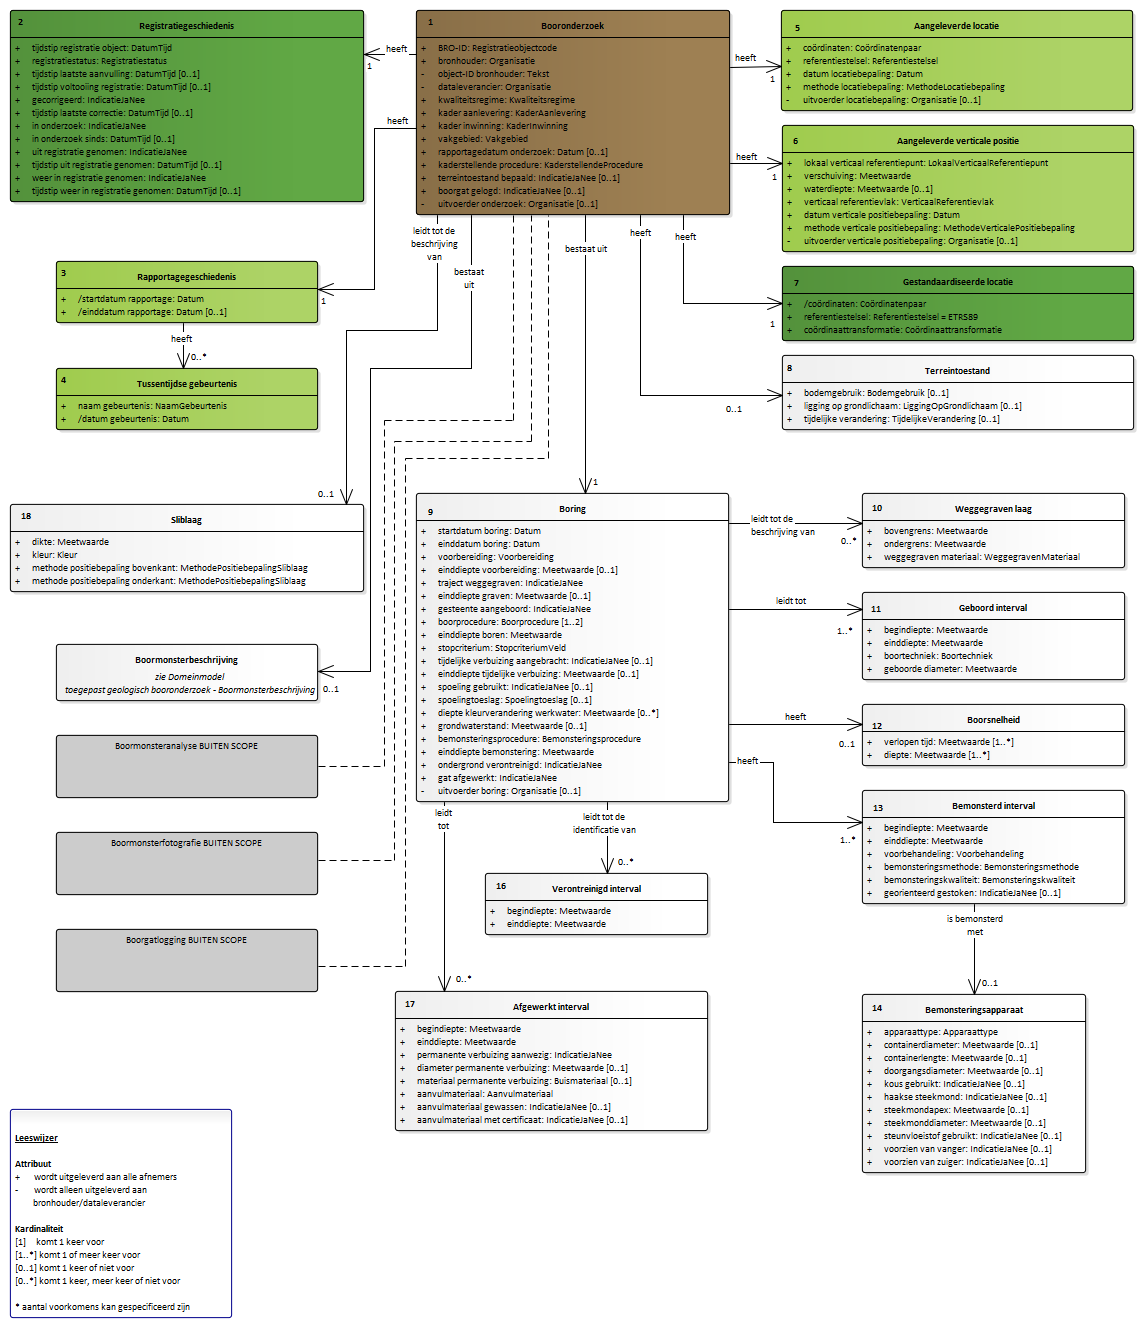
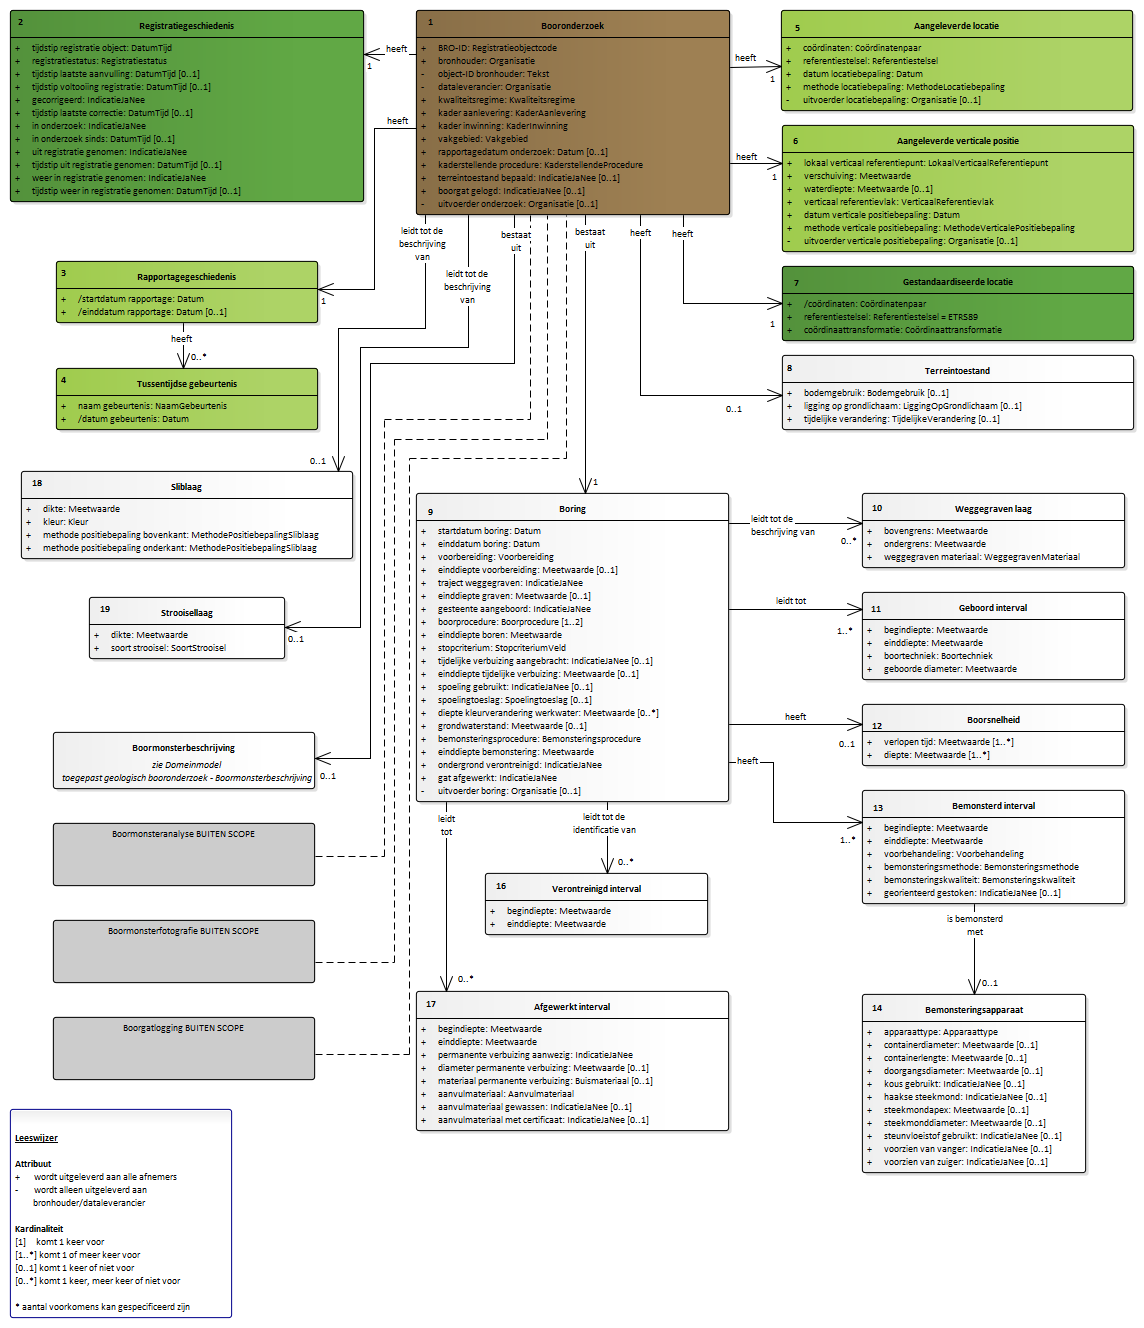
Conceptualmodel-ToegepastgeotechnischbooronderzoekBHR-AGconceptueel-0.1-1-20200401-20200612-103448

diff --git a/data/BHR-AG-cat.msword.html b/data/BHR-AG-cat.msword.html
@@ -13,7 +13,7 @@
    <body>
       <p>Conceptual model/Toegepast geotechnisch booronderzoek (BHR-AG) conceptueel/20200401</p>
       <p>Imvertor: 1.59.4</p>
-      <p>Model release: Conceptualmodel-ToegepastgeotechnischbooronderzoekBHR-AGconceptueel-0.1-1-20200401-20200604-171221</p>
+      <p>Model release: Conceptualmodel-ToegepastgeotechnischbooronderzoekBHR-AGconceptueel-0.1-1-20200401-20200612-103448</p>
       <hr>
       <section>
          <h1>Artikel 1 Definitie van registratieobject, entiteiten en attributen</h1>
@@ -69,21 +69,22 @@
             <h2>Het domeinmodel</h2>
             <section id="">
                <div class="imageinfo overview"><img src="Images/EAID_223402C6_6322_4aba_8709_94671A3F0EA4.png" usemap="#imagemap-EAID_223402C6_6322_4aba_8709_94671A3F0EA4" alt="Diagram "><map name="imagemap-EAID_223402C6_6322_4aba_8709_94671A3F0EA4">
+                     <area shape="rect" alt="Strooisellaag" coords="89,597,285,659" href="#graph_EAID_ECC1D9CE_D27B_483b_9A3D_F471137D71F1">
                      <area shape="rect" alt="Gestandaardiseerde locatie" coords="782,266,1134,341" href="#graph_EAID_A914B861_8C05_4239_879B_2F3E91A3917C">
                      <area shape="rect" alt="Registratiegeschiedenis" coords="10,10,364,202" href="#graph_EAID_739AAD42_75DB_4f57_AAA8_E44A1E9F56C7">
                      <area shape="rect" alt="Tussentijdse gebeurtenis" coords="56,368,318,430" href="#graph_EAID_2C46F586_D6CC_4872_A421_A9496F61E8F9">
                      <area shape="rect" alt="Rapportagegeschiedenis" coords="56,261,318,323" href="#graph_EAID_CED3623F_09BE_4a99_95ED_940EB75850D2">
                      <area shape="rect" alt="Boorsnelheid" coords="862,704,1125,766" href="#graph_EAID_1CB0936F_94C8_4cfd_939F_06B344530E5D">
                      <area shape="rect" alt="Verontreinigd interval" coords="485,873,708,935" href="#graph_EAID_5DA10DC9_4546_4ef1_8AFD_DCA97C43EAEA">
-                     <area shape="rect" alt="Boormonsterbeschrijving" coords="56,644,318,701" href="#graph_EAID_8103A173_5F70_409f_9D04_8BC00B75B8C2">
+                     <area shape="rect" alt="Boormonsterbeschrijving" coords="53,732,315,789" href="#graph_EAID_8103A173_5F70_409f_9D04_8BC00B75B8C2">
                      <area shape="rect" alt="Bemonsteringsapparaat" coords="862,994,1086,1173" href="#graph_EAID_39D147F9_B247_4e8e_9490_FD711A3A40D4">
-                     <area shape="rect" alt="Afgewerkt interval" coords="395,991,708,1131" href="#graph_EAID_D708726D_D9BD_48e2_B9E7_E30E34986E8D">
+                     <area shape="rect" alt="Afgewerkt interval" coords="416,991,729,1131" href="#graph_EAID_D708726D_D9BD_48e2_B9E7_E30E34986E8D">
                      <area shape="rect" alt="Bemonsterd interval" coords="862,790,1125,904" href="#graph_EAID_942B7F57_4285_46e2_866F_EDB4185826DB">
                      <area shape="rect" alt="Geboord interval" coords="862,592,1125,680" href="#graph_EAID_4701F363_88BB_41b6_B361_392BA77EB93D">
                      <area shape="rect" alt="Weggegraven laag" coords="862,493,1125,568" href="#graph_EAID_833E1A20_D927_46d1_8394_84DCDEEFA572">
                      <area shape="rect" alt="Terreintoestand" coords="782,355,1134,430" href="#graph_EAID_D7BF7802_8248_4db2_920D_6A2516EFFB9B">
                      <area shape="rect" alt="Boring" coords="416,493,729,802" href="#graph_EAID_39DA8E6A_0EF3_47fd_844E_6FE320BFA4C3">
-                     <area shape="rect" alt="Sliblaag" coords="10,504,364,592" href="#graph_EAID_304137CD_7F09_49ff_8E9B_BCCFE9E29B41">
+                     <area shape="rect" alt="Sliblaag" coords="21,471,353,559" href="#graph_EAID_304137CD_7F09_49ff_8E9B_BCCFE9E29B41">
                      <area shape="rect" alt="Aangeleverde verticale positie" coords="782,125,1134,252" href="#graph_EAID_20F3A37D_7015_4e91_855F_5420C1F71B69">
                      <area shape="rect" alt="Aangeleverde locatie" coords="781,10,1133,111" href="#graph_EAID_FCC60860_F24C_4fff_B77A_AF02BEEEC7FC">
                      <area shape="rect" alt="Booronderzoek" coords="416,10,730,215" href="#graph_EAID_08444867_A549_4d70_91A3_AB6CAE5538BE"></map><p><b>Domeinmodel toegepast geologisch booronderzoek - Algemeen deel</b></p>
@@ -6841,6 +6842,125 @@
                            <tr>
                               <th>&nbsp;&nbsp;Naam</th>
                               <td><a class="link" href="#detail_class_Model_MethodePositiebepalingSliblaag">MethodePositiebepalingSliblaag</a></td>
+                           </tr>
+                           <tr>
+                              <th>&nbsp;&nbsp;Type</th>
+                              <td>Waardelijst uitbreidbaar</td>
+                           </tr>
+                        </tbody>
+                     </table>
+                     
+                  </section>
+               </section><a class="anchor" id="graph_EAID_ECC1D9CE_D27B_483b_9A3D_F471137D71F1"></a><a class="anchor" id="global_class_Model_Strooisellaag"></a><section id="global_class_Model_Strooisellaag">
+                  <h3>   Strooisellaag</h3>
+                  <div class="imageinfo "><img src="Images/EAID_B55C5F08_5369_4b1e_9914_9F873A27742F.png" usemap="#imagemap-EAID_B55C5F08_5369_4b1e_9914_9F873A27742F" alt="Diagram "><map name="imagemap-EAID_B55C5F08_5369_4b1e_9914_9F873A27742F">
+                        <area shape="rect" alt="Strooisellaag" coords="10,10,191,72" href="#graph_EAID_ECC1D9CE_D27B_483b_9A3D_F471137D71F1"></map><p><b></b></p>
+                  </div>
+                  <table style="width: 100%;">
+                     <colgroup style="width: 30%;"></colgroup>
+                     <colgroup style="width: 70%;"></colgroup>
+                     <tbody>
+                        <tr>
+                           <th>Type gegeven</th>
+                           <td>Entiteit</td>
+                        </tr>
+                        <tr>
+                           <th>Definitie</th>
+                           <td>
+                              
+                              <p>Een laag organisch materiaal die plaatselijk op het maaiveld ligt en uit resten van
+                                 voornamelijk bovengrondse plantendelen in verschillende stadia van omzetting bestaat.
+                              </p>
+                              
+                           </td>
+                        </tr>
+                     </tbody>
+                  </table><a class="anchor" id="detail_attribute_Model_Strooisellaag_dikte"></a><section id="detail_attribute_Model_Strooisellaag_dikte">
+                     <h4>  dikte</h4>
+                     
+                     <table style="width: 100%;">
+                        <colgroup style="width: 30%;"></colgroup>
+                        <colgroup style="width: 70%;"></colgroup>
+                        <tbody>
+                           <tr>
+                              <th>Type gegeven</th>
+                              <td>Attribuut van Strooisellaag</td>
+                           </tr>
+                           <tr>
+                              <th>Definitie</th>
+                              <td>
+                                 
+                                 <p>De dikte van de strooisellaag.</p>
+                                 
+                              </td>
+                           </tr>
+                           <tr>
+                              <th>Juridische status</th>
+                              <td>Authentiek</td>
+                           </tr>
+                           <tr>
+                              <th>Kardinaliteit</th>
+                              <td>1</td>
+                           </tr>
+                           <tr>
+                              <th>Domein</th>
+                              <td></td>
+                           </tr>
+                           <tr>
+                              <th>&nbsp;&nbsp;Naam</th>
+                              <td>Meetwaarde 
+                                 2.2
+                              </td>
+                           </tr>
+                           <tr>
+                              <th>&nbsp;&nbsp;Type</th>
+                              <td>Getal</td>
+                           </tr>
+                           <tr>
+                              <th>&nbsp;&nbsp;Eenheid</th>
+                              <td>m (meter)</td>
+                           </tr>
+                           <tr>
+                              <th>&nbsp;&nbsp;Waardebereik</th>
+                              <td>0 tot 20</td>
+                           </tr>
+                        </tbody>
+                     </table>
+                     
+                  </section><a class="anchor" id="detail_attribute_Model_Strooisellaag_soortstrooisel"></a><section id="detail_attribute_Model_Strooisellaag_soortstrooisel">
+                     <h4>  soort strooisel</h4>
+                     
+                     <table style="width: 100%;">
+                        <colgroup style="width: 30%;"></colgroup>
+                        <colgroup style="width: 70%;"></colgroup>
+                        <tbody>
+                           <tr>
+                              <th>Type gegeven</th>
+                              <td>Attribuut van Strooisellaag</td>
+                           </tr>
+                           <tr>
+                              <th>Definitie</th>
+                              <td>
+                                 
+                                 <p>De nadere aanduiding van de herkomst van het organisch materiaal waaruit de laag bestaat.</p>
+                                 
+                              </td>
+                           </tr>
+                           <tr>
+                              <th>Juridische status</th>
+                              <td>Authentiek</td>
+                           </tr>
+                           <tr>
+                              <th>Kardinaliteit</th>
+                              <td>1</td>
+                           </tr>
+                           <tr>
+                              <th>Domein</th>
+                              <td></td>
+                           </tr>
+                           <tr>
+                              <th>&nbsp;&nbsp;Naam</th>
+                              <td><a class="link" href="#detail_class_Model_SoortStrooisel">SoortStrooisel</a></td>
                            </tr>
                            <tr>
                               <th>&nbsp;&nbsp;Type</th>
@@ -13711,6 +13831,16 @@
                      </td>
                   </tr>
                   <tr>
+                     <td>digitaleKaartGrootschalig</td>
+                     <td>
+                        
+                        <p>Locatie bepaald aan de hand van een digitale kaart, afwijking onbekend. Een grootschalige
+                           kaart is de Basisregistratie Grootschalige Topografie (BGT).
+                        </p>
+                        
+                     </td>
+                  </tr>
+                  <tr>
                      <td>GPS200tot1000cm</td>
                      <td>
                         
@@ -14020,6 +14150,19 @@
                   <tr>
                      <th>Waarde</th>
                      <th>Omschrijving</th>
+                  </tr>
+                  <tr>
+                     <td>AHN3_50cmRaster</td>
+                     <td>
+                        
+                        <p>Positie bepaald m.b.v. Actueel Hoogtebestand Nederland, versie 3, ingewonnen tussen
+                           2014 en 2019. Voor de bepaling van de verticale positie is het rasterbestand van 50
+                           x 50 cm gebruikt. De uitvoerder heeft met kennis van zaken gebruik gemaakt van het
+                           ruwe rasterbestand of het gefilterde rasterbestand, het zogenaamde maaiveldraster
+                           is gefilterd voor elementen die op het maaiveld staan zoals begroeiing en bebouwing.
+                        </p>
+                        
+                     </td>
                   </tr>
                   <tr>
                      <td>RTKGPS0tot4cm</td>
@@ -15247,6 +15390,54 @@
                      <td>
                         
                         <p>Het cement is niet herkenbaar.</p>
+                        
+                     </td>
+                  </tr>
+               </tbody>
+            </table>
+            
+         </section>
+         <section id="detail_class_Model_SoortStrooisel">
+            <h3>  SoortStrooisel</h3>
+            
+            <table style="width: 100%;" class="list">
+               <colgroup></colgroup>
+               <tbody>
+                  <tr>
+                     <td>
+                        
+                        <p>De lijst met de soorten strooisel.</p>
+                        
+                     </td>
+                  </tr>
+               </tbody>
+            </table>
+            
+            <table style="width: 100%;" class="list">
+               <colgroup style="width: 50%;"></colgroup>
+               <colgroup></colgroup>
+               <tbody>
+                  <tr>
+                     <th>Waarde</th>
+                     <th>Omschrijving</th>
+                  </tr>
+                  <tr>
+                     <td>loofstrooisel</td>
+                     <td>
+                        
+                        <p>Het strooisel bestaat voornamelijk uit de resten van de bovengrondse delen van de
+                           planten van loofbossen en gemengde bossen met meer loofbomen dan naaldbomen.
+                        </p>
+                        
+                     </td>
+                  </tr>
+                  <tr>
+                     <td>naaldstrooisel</td>
+                     <td>
+                        
+                        <p>Het strooisel bestaat voornamelijk uit de resten van voornamelijk bovengrondse plantedelen
+                           in naaldbos en gemengd bos met meer naaldbomen dan loofbomen.
+                        </p>
                         
                      </td>
                   </tr>
